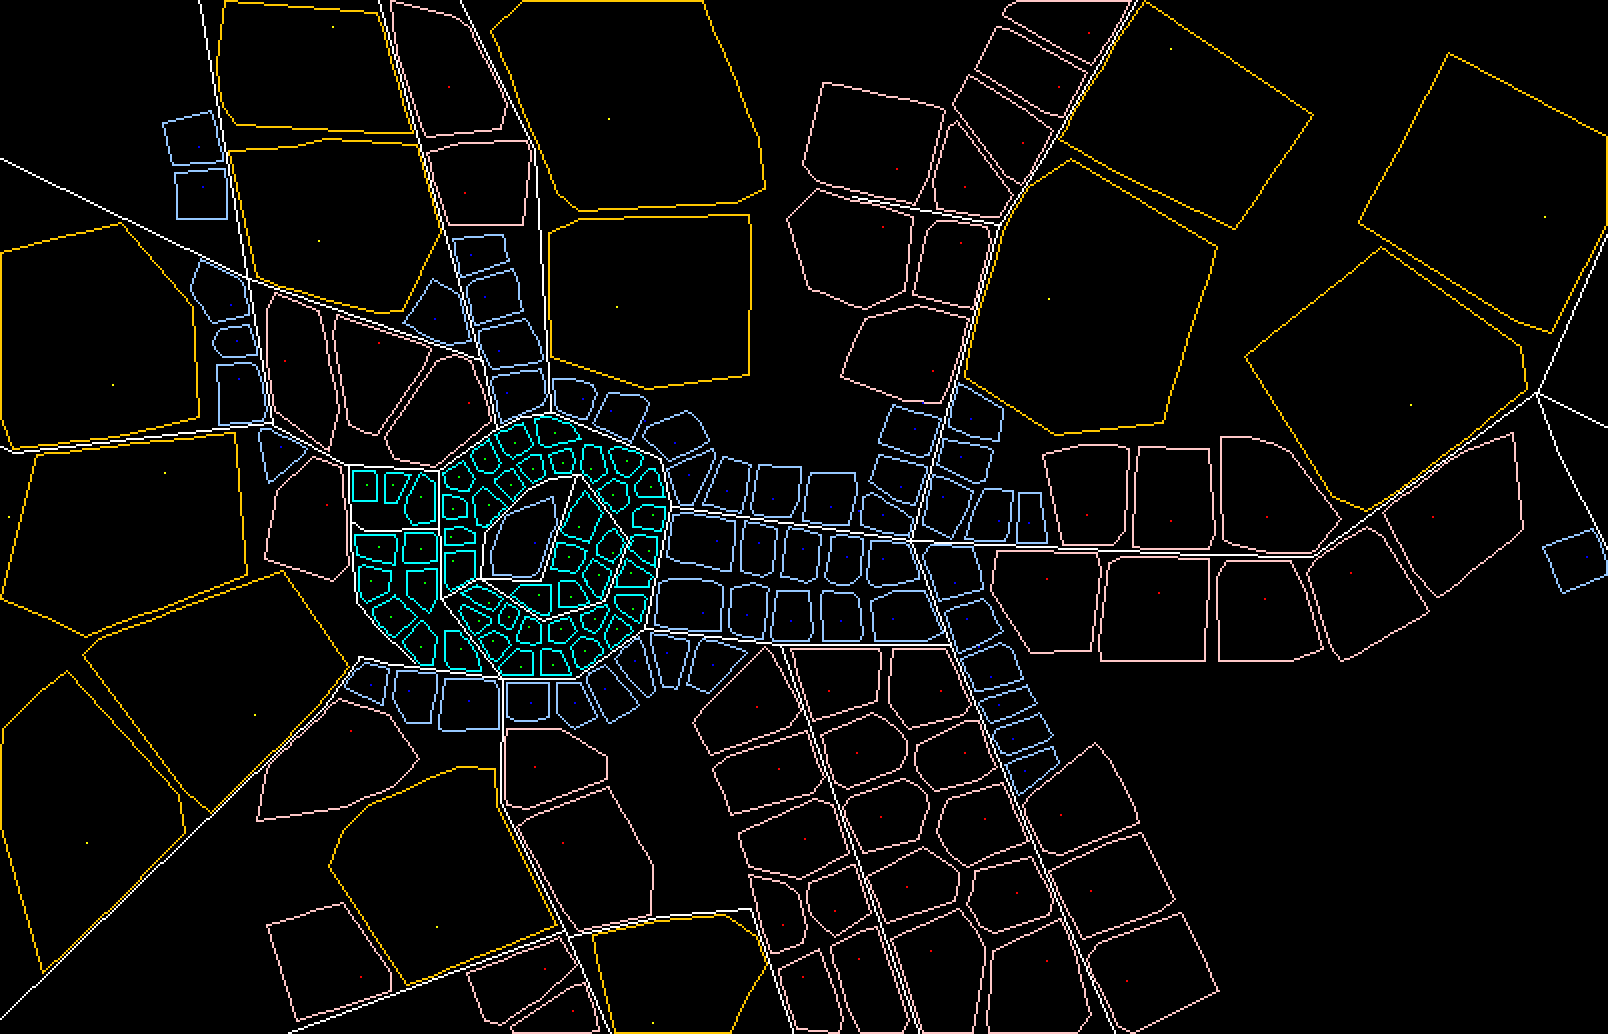
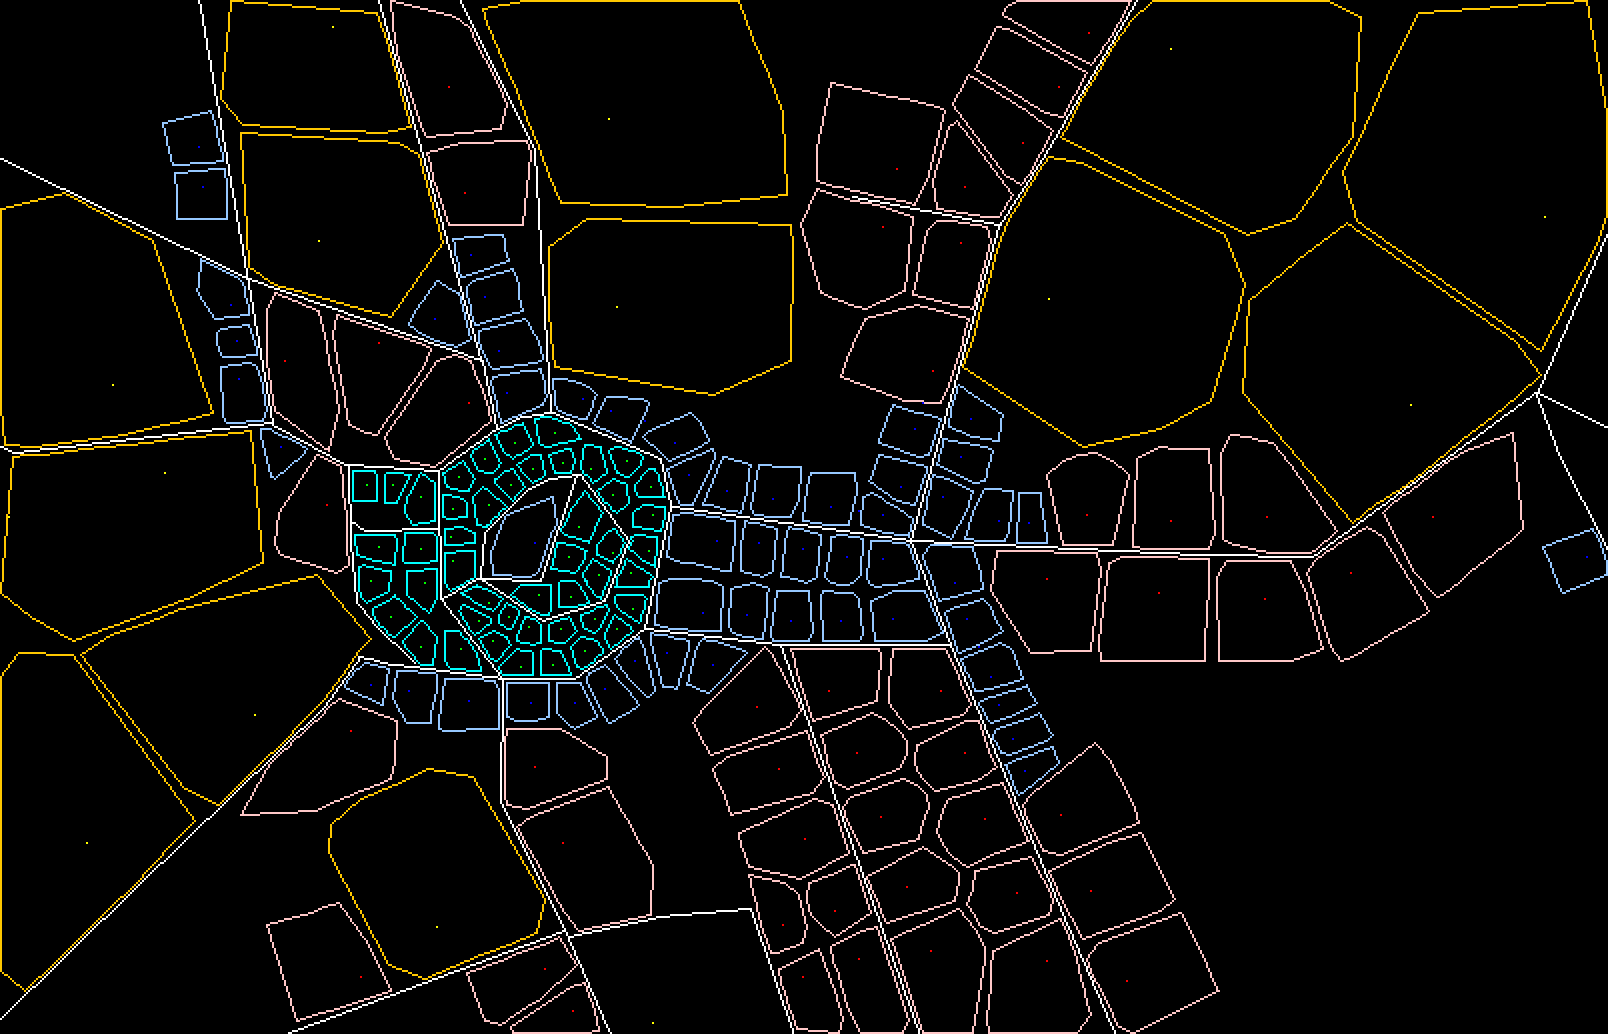
0824

diff --git a/parcel_geomotry.py b/parcel_geomotry.py
@@ -30,7 +30,7 @@ def load_data_from_png(path):
         Buildings.append(FBuilding(i + size, 50, 50, [buildings3[1][i], buildings3[0][i]]))
     size = len(Buildings)
     for i in range(len(buildings4[0])):
-        Buildings.append(FBuilding(i + size, 100, 100, [buildings4[1][i], buildings4[0][i]]))
+        Buildings.append(FBuilding(i + size, 120, 120, [buildings4[1][i], buildings4[0][i]]))
 
 
 def MarkNeighborsOfAllBuildings():

diff --git a/parcel_v2.py b/parcel_v2.py
@@ -409,7 +409,7 @@ if __name__ == '__main__':
     for i, x in enumerate(target):
         Buildings.append(Building(i + size1 + size2, radius, [buildings3[0][x], buildings3[1][x]]))
 
-    radius = 40
+    radius = 60
     target = range(size4)
     for i, x in enumerate(target):
         Buildings.append(Building(i + size1 + size2 + size3, radius, [buildings4[0][x], buildings4[1][x]]))
